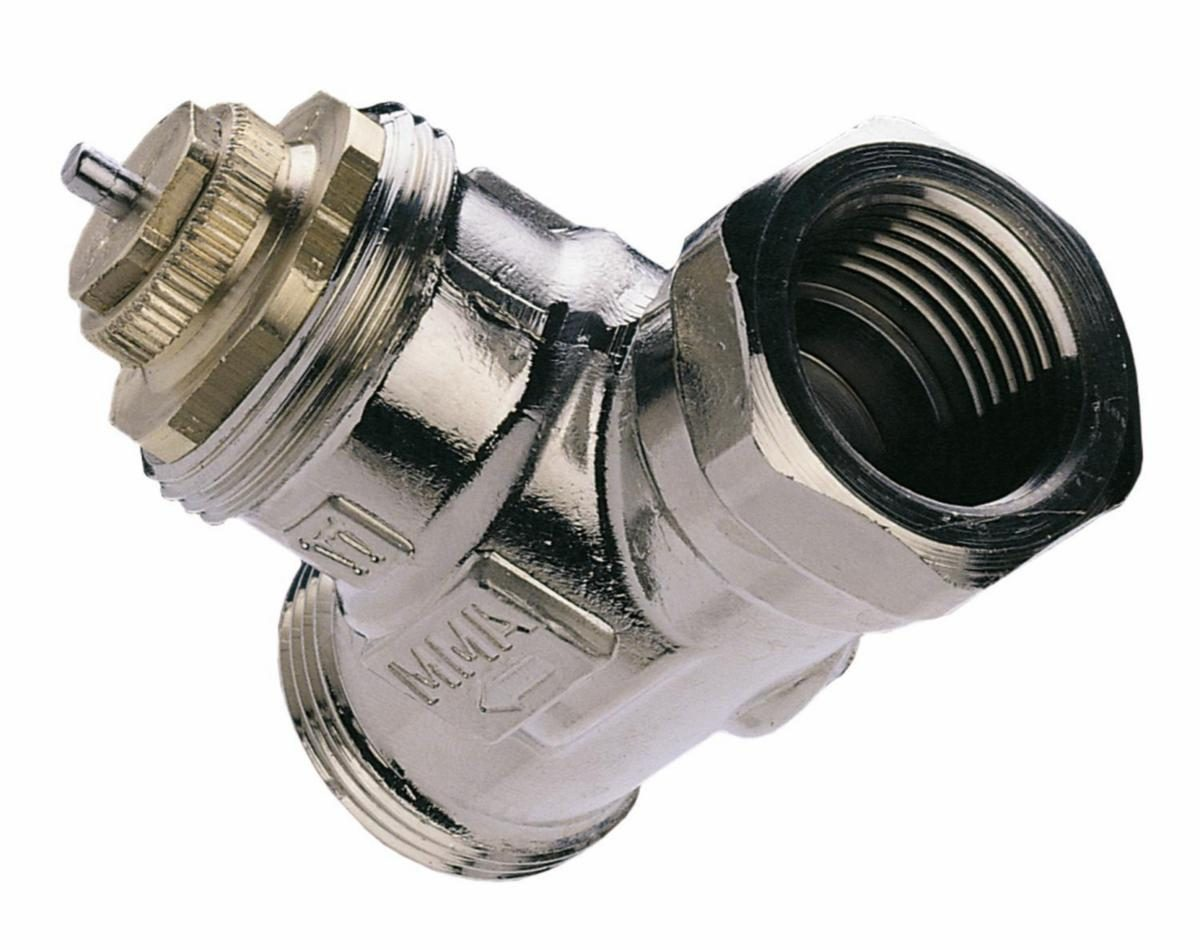
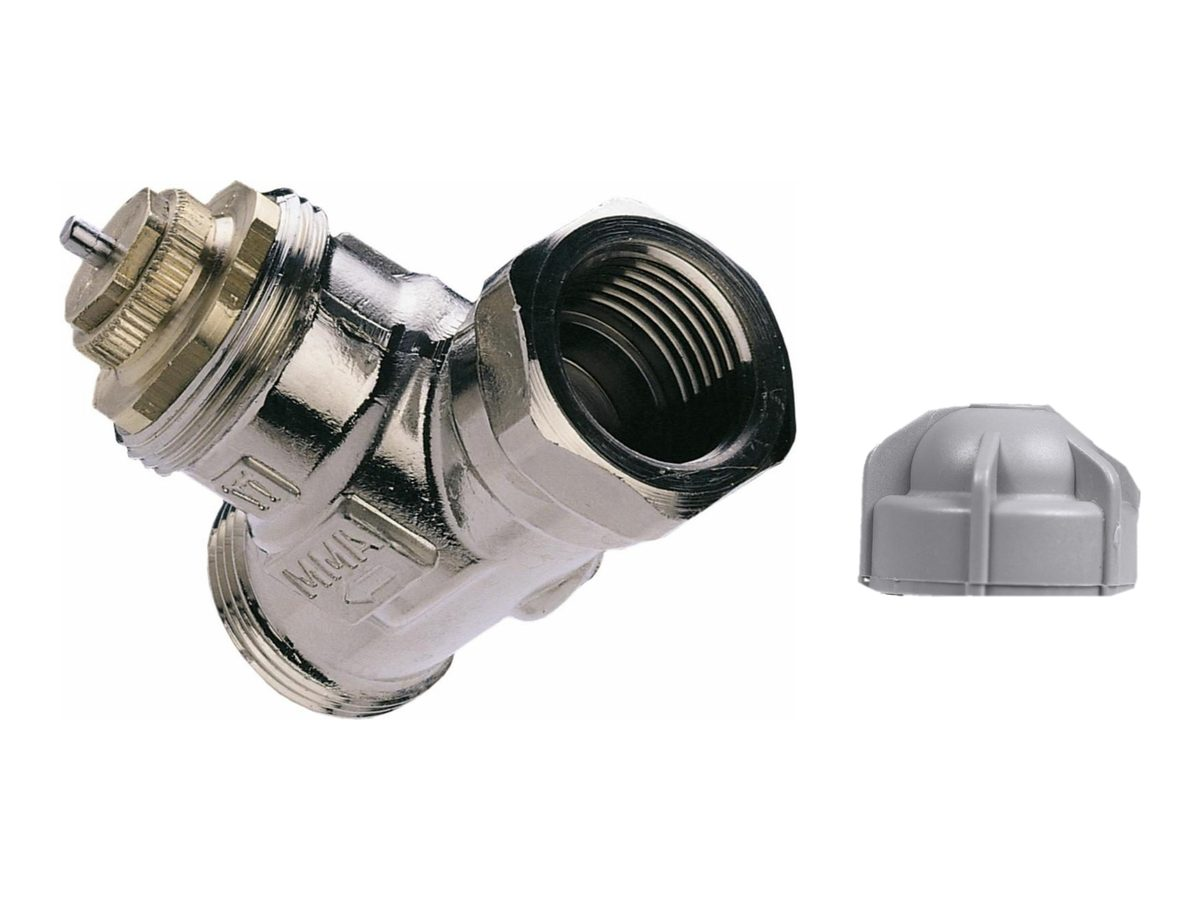
B-43: FV-bilder visar skyddsrattens färg
FV äldre och FVXR får grå hatt i galleribilden; verktygstabellerna får
raden Skyddsratt (hatt).

diff --git a/docs/BESLUT.md b/docs/BESLUT.md
@@ -56,6 +56,10 @@ Användaren går igenom en ventil i taget mot produktbladet. Godkända ventiler 
 | imi-ta-ventim-5950 | 2026-11-02 | Godkänd enligt B-27 (exakt, alla 86 rader, s. 4–5). |
 | purmo-radiatorer | 2026-11-02 | Godkänd enligt B-27 (exakt, s. 9). Katalogen är Altech/SGDS, inte Purmo – användaren valde att **behålla namnet Purmo**. |
 
+**B-43 (2026-11-05):** På MMA FV-korten ska galleribilden visa ventilen tillsammans med skyddsratten ("hatten") i rätt färg, eftersom färgen visar vilken serie och vilket verktyg som gäller. Det är användarens önskemål. Grå hatt = FV/FVXR (förinställningsbar), grön = FVRe.
+- **Bilder:** FV äldre och FVXR har fått en grå hatt monterad i bilden. Hatten är urklippt ur FV-bladets foto och tonen neutraliserad till grå, eftersom bladen bekräftar att den är grå.
+- **Tabeller:** verktygstabellerna har fått raden "Skyddsratt (hatt)".
+
 **B-42 (2026-11-05):** De fem FV-posterna är granskade mot produktbladen av en oberoende agent.
 - **Inga kv-intervall var fel.**
 - **Rättat:**
